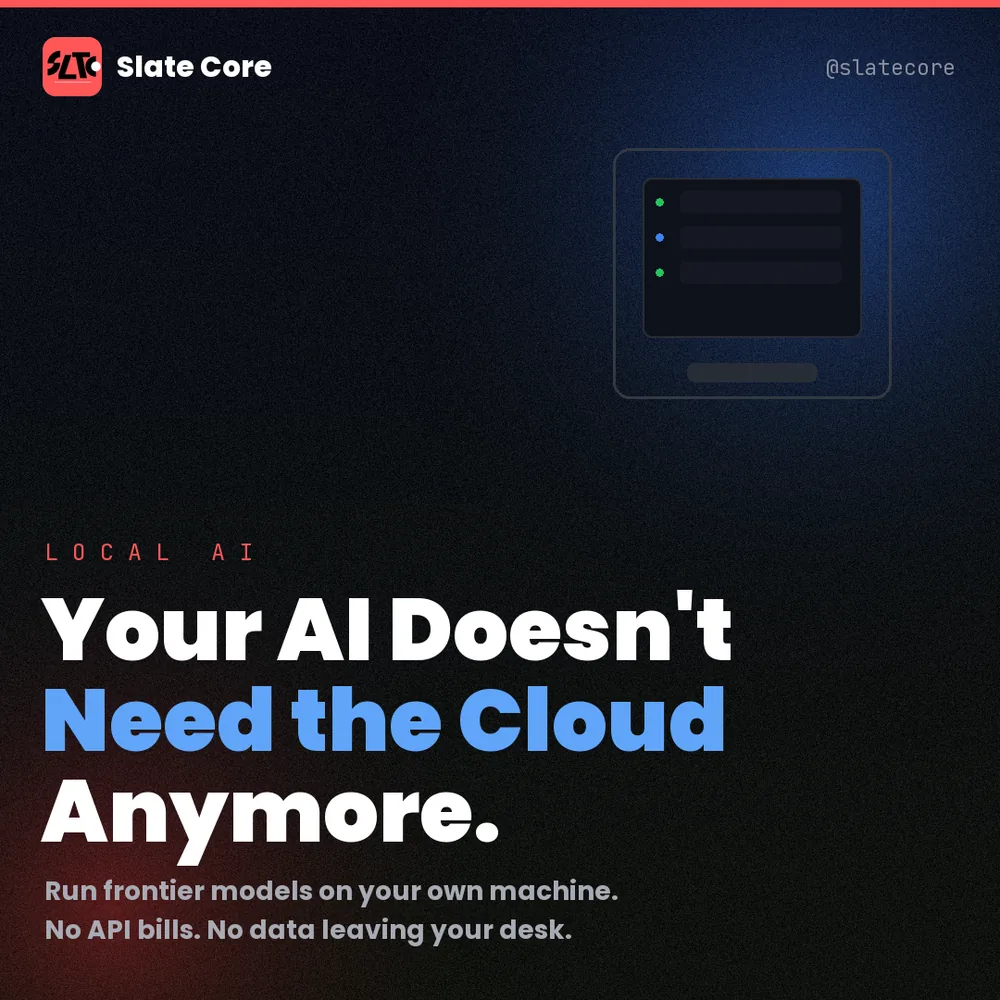
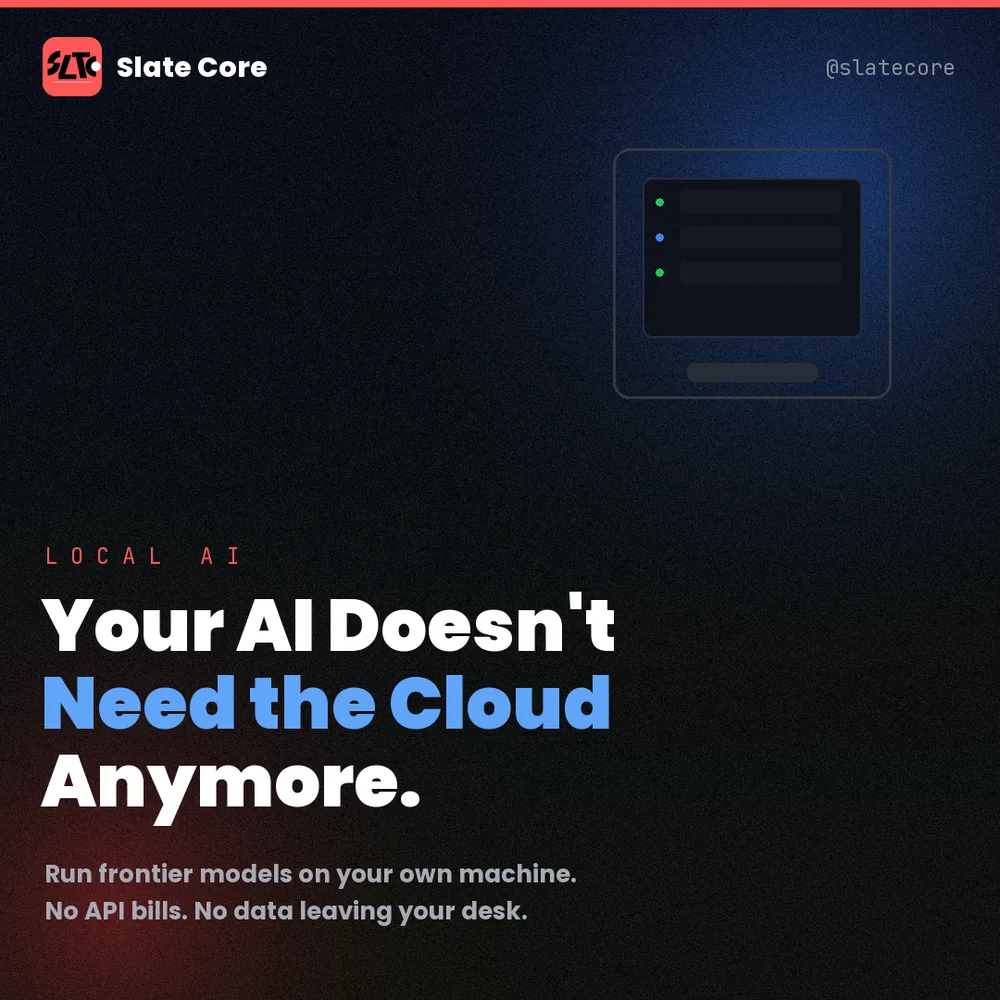
Post #018: set Instagram link, smaller cover typography

diff --git a/posts-data.js b/posts-data.js
@@ -14,7 +14,7 @@ const MASTERAI_POSTS = [
     image: "assets/covers/cover-post-018.webp",
     date: "Nov 23, 2026",
     slidesCount: 5,
-    igLink: "https://www.instagram.com/slatecore/",
+    igLink: "https://www.instagram.com/p/DgFrzsCI8xf/",
     tags: ["LocalAI", "Ollama", "LLM", "OpenSource", "SelfHosting"],
     accentColor: "#3b82f6"
   },
